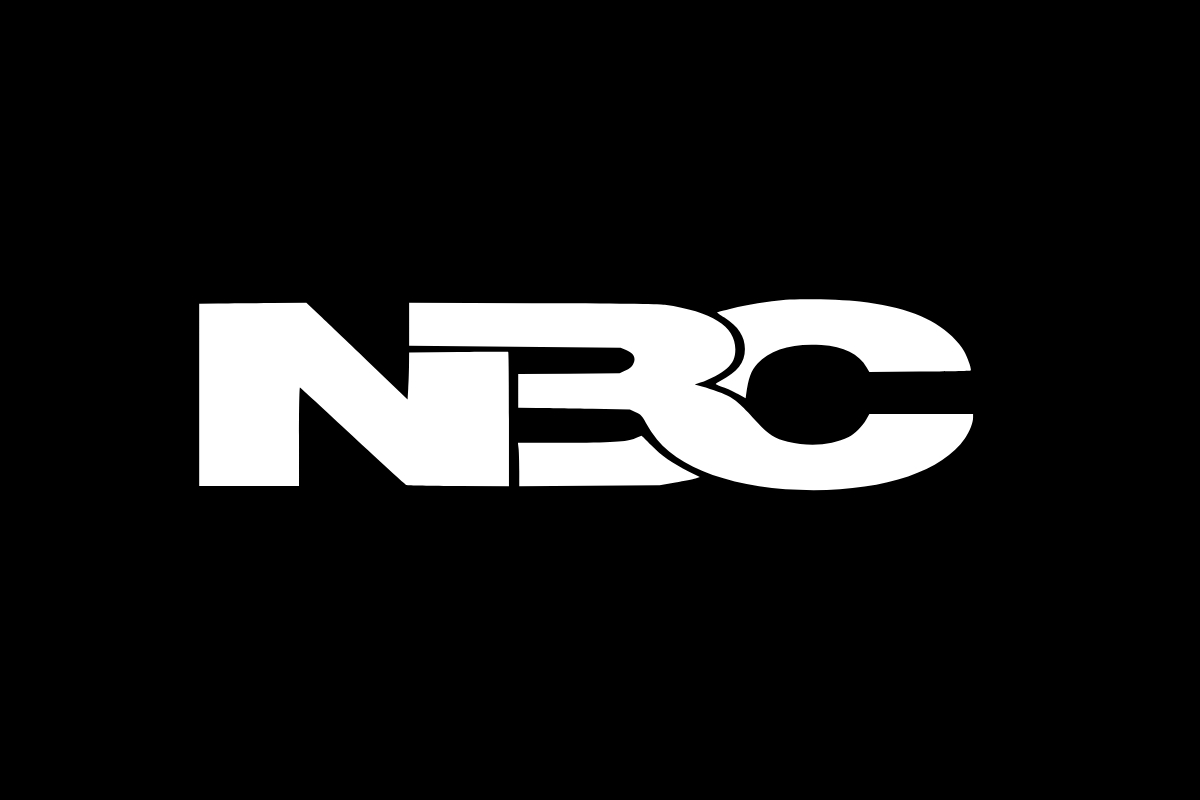
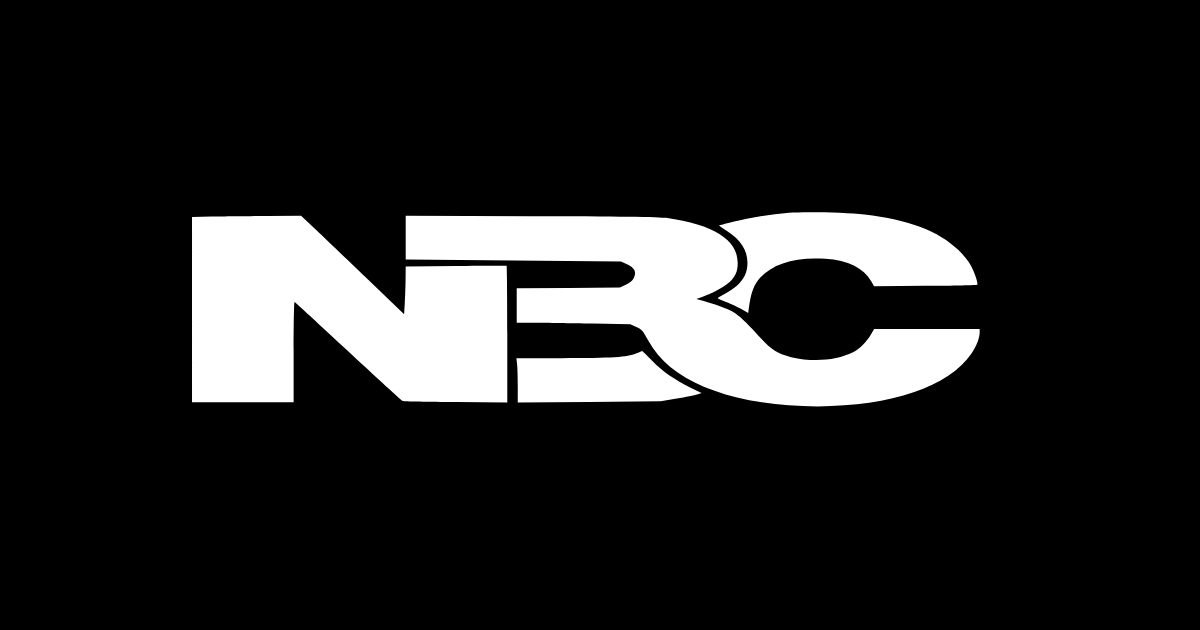
mejore el SEO de Opengraph

diff --git a/src/app/layout.jsx b/src/app/layout.jsx
@@ -13,7 +13,7 @@ export const metadata = {
     template: '%s | Nosara Booking Center',
     default: 'Nosara Booking Center',
   },
-  description: "Looking for an exciting adventure? Want to relax and rejuvenate? Need help with cleaning or childcare? No matter what you're looking for, Nosara Booking Center has what you need.",
+  description: "Your gateway to adventure in Nosara starts here! Plan your trip now and discover a world of exciting experiences. From exploring mountain trails by ATV to touring Nosara in golf carts, we have everything you need to make your visit unforgettable. Plus, immerse yourself in the serenity of yoga, experience the thrill of catamaran excursions, explore the mountains on horseback, and indulge your taste buds at the area's finest restaurants. Book today and start planning an unforgettable trip to Nosara.",
   metadataBase: new URL('https://www.nosarabookingcenter.com'),
   alternates: {
     canonical: '/',
@@ -53,13 +53,13 @@ robots: {
   }
 },
 openGraph: {
-  title: 'Nosara Booking Center',
-  description: "Looking for an exciting adventure? Want to relax and rejuvenate? Need help with cleaning or childcare? No matter what you're looking for, Nosara Booking Center has what you need.",
+  title: 'Nosara Booking Center: Book Now and Discover the Best Experiences ',
+  description: "Your gateway to adventure in Nosara starts here! Plan your trip now and discover a world of exciting experiences. From exploring mountain trails by ATV to touring Nosara in golf carts, we have everything you need to make your visit unforgettable. Plus, immerse yourself in the serenity of yoga, experience the thrill of catamaran excursions, explore the mountains on horseback, and indulge your taste buds at the area's finest restaurants. Book today and start planning an unforgettable trip to Nosara.",
   images:[
     {
-      url:`'/opengraph-image.jpg'`,
+      url: "/opengraph-image.jpg",
       width:"1200",
-      height:"800"
+      height:"630"
     }
   ],
   url: 'www.nosarabookingcenter.com/',

diff --git a/src/app/Service/[service]/page.jsx b/src/app/Service/[service]/page.jsx
@@ -32,15 +32,15 @@ export async function generateMetadata({ params }) {
       "Booking Nosara"
     ],
     openGraph:{
-      title: data.fields.name,
-      description: data.fields.description,
+      title: data.fields.ogTitle,
+      description: data.fields.ogDescription,
       url: `/Service/${params.service}`,
       siteName:"Nosara Booking Center",
       images:[
         {
           url:`https:${data?.fields?.image?.fields?.file?.url}`,
-          width:"1920",
-          height:"1280"
+          width:"1200",
+          height:"630"
         }
       ],
       type:"website"

diff --git a/src/components/Service/Book.jsx b/src/components/Service/Book.jsx
@@ -46,7 +46,7 @@ export function Book({serviceName}) {
     const [currentStepIndex, setCurrentStepIndex] = useState(0)
     const [loading, setLoading] = useState(false)
     const [data, setData] = useState(initialData)
-    
+
     const isFirstStep = currentStepIndex === 0
 
     const steps = serviceName !== "Shuttle" ? [<Form1 key={24332} data={data} updateFields={updateFields} serviceName={serviceName} isFirstStep={isFirstStep} />, <DynamicForm key={45345} data={data} updateFields={updateFields} serviceName={serviceName} isFirstStep={isFirstStep} /> ] : 

diff --git a/src/components/Service/Info.jsx b/src/components/Service/Info.jsx
@@ -2,6 +2,7 @@ import { ServiceYouNeed } from "../ServiceYouNeed";
 import { Copy } from "./Copy";
 import Image from "next/image";
 import { Book } from "./Book";
+import { Example } from "../Example";
 
 export async function Info({ service, getData }) {
 

diff --git a/src/app/globals.css b/src/app/globals.css
@@ -189,7 +189,6 @@ p{
 
 .react-international-phone-input {
     width: 100%;
-    height: 45px;
     font-size: 0.875rem;
     background-color: rgba(83, 69, 69, 0);
     @apply text-gray-900 
